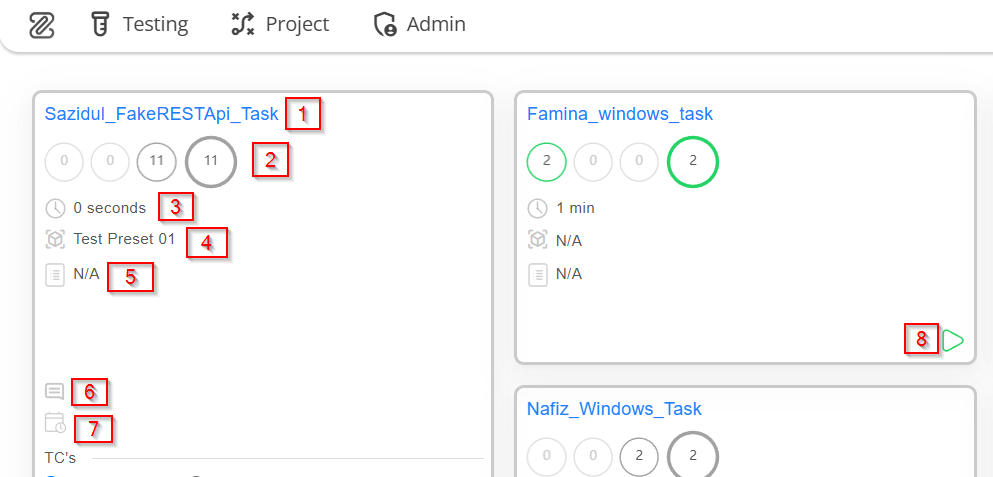
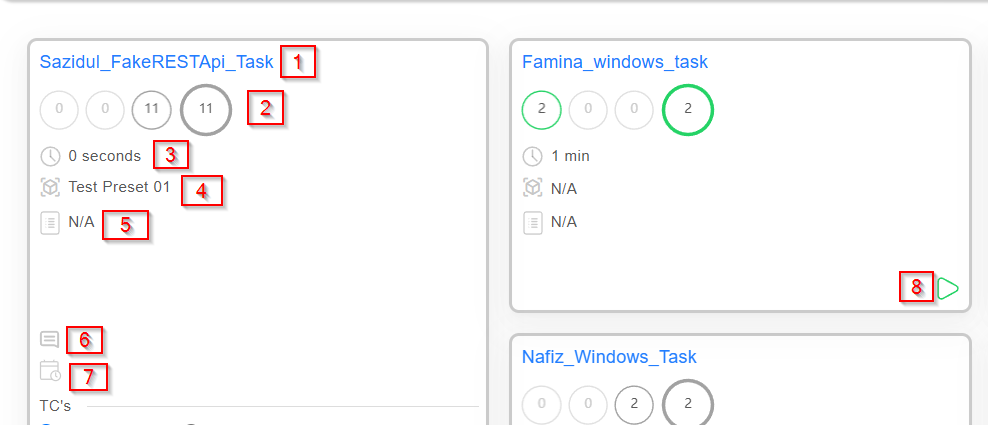
testing docs

Changed region(s): [[0.0, 0.0, 1.0, 1.0]]

diff --git a/docs/zeuz-server/testing/Deployments/test-set.md b/docs/zeuz-server/testing/Deployments/test-set.md
@@ -50,13 +50,8 @@ A Test Set is a collection of logically grouped test cases. Test sets can be exe
    2. Shows the total number of test cases in the set, as well as the number of test cases that have been passed, failed, blocked, and submitted.
    3. The execution time of the test set.
    4. The preset of the test set is defined. However, if we click on the preset that has been connected to the test set then it will show the following run configuration information, such as:
-
-    |                    |  Properties    |                       |
-    |--------------------|----------------|-----------------------|
-    |  1. Node           |  2. Testers    |  3. Emails            |
-    |  4. Version        |  5. Milestone  |  6. Objective         |
-    |  7. Browser        |  8. Mobile     |  9. External service  |
-
+      - **Description of the Test Set**.
+      - **Schedule of the Test Set**.  
     The benefit here is that if the preset of a set is selected, it will display the test cases associated with that set.  
    5. It also displays the plan, if there is one.  
    6. The description is available; if there is a description, it will be displayed, otherwise, the field will remain blank.  
@@ -75,36 +70,143 @@ When sorted by "Status", failed test cases appear first, followed by blocked, pa
 
 ![](/img/how-tos/how-to-create-test-sets/set-version.png)
 
+### View Tab of the Test Set Page
+- At first, the specific test set must be selected by clicking on it, which will open the **Test Set** page.
+- At the top of the page, there is a title bar that displays the test set name, the creator, and the creation date of the test set. However, the name of the set can be updated by clicking on it.
 
-## Add or remove test cases
-1. First, click on the **Test Set Name** of the specific test set card available on the **Set** page.
+![](/img/how-tos/how-to-create-test-sets/set-title.png)
 
-![](/img/how-tos/how-to-create-test-sets/card-set.png)
+- Again, at the top of the page, the following options are available:  
+  - **Copy test set**: By clicking the **Copy test set** option, the Copy Test Set window will appear. It requires the test set name and description. After clicking the **Copy** button, a notification will appear, such as: “Test set with the name ‘Regression Set’ was created successfully.”
 
-2. Go to the **Test Set (Add/Remove)** page and click on the **Add** tab.
-3. Click the "checkbox" to select test cases for adding to the test set.
-4. Next, click on the "Add Selected" button.
- 
-![](/img/how-tos/how-to-create-test-sets/add-tab.png)
+  ![](/img/how-tos/how-to-create-test-sets/copy-test.png)
 
-5. Click on the **View** tab to see whether the required **Test cases** are added or not.
+  ![](/img/how-tos/how-to-create-test-sets/copy-set.png)
+
+  ![](/img/how-tos/how-to-create-test-sets/copy-notification.png)
+
+  - **Reorder options**: It is used to change the execution order of the test cases within the test set.This allows users to arrange test cases in a specific sequence based on their testing needs. Also, by clicking the **Reorder option**, a **Drag & Drop** feature becomes available, allowing users to arrange the test cases by dragging them.
+
+  ![](/img/how-tos/how-to-create-test-sets/reorder-set.png)
+
+  - **Export test set**: An **Export test set** is the process of extracting a collection of grouped test cases from a test management system and saving them in an external file format such as Excel or CSV for sharing, reporting, backup, or offline analysis.
+
+  ![](/img/how-tos/how-to-create-test-sets/export-set.png)
+
+  - **Delete test set**: A **Delete test set** refers to the action of permanently removing a test set and all its associated test cases from a test management system.
+
+  ![](/img/how-tos/how-to-create-test-sets/delete-set.png)
+
+  - **Run test set**: A **Run test set** is the process of executing all test cases grouped inside a test set in a test management system to validate the functionality of an application.During a test run, each test case is executed, and its result is recorded as passed, failed, or submitted.
+
+  ![](/img/how-tos/how-to-create-test-sets/run-set.png)
+
+- Below the title, there are two tabs:  
+  - **View**: Displays all existing test cases.
+  - **Add**: Used to add new test cases.
+
+  ![](/img/how-tos/how-to-create-test-sets/view-add.png)
+
+- A **Search bar** is available to quickly find test cases by ID, label, user, folder, or feature.
+
+![](/img/how-tos/how-to-create-test-sets/search-set.png)
+
+- The **Remove Selected** button allows users to delete multiple selected test cases at once.
+
+![](/img/how-tos/how-to-create-test-sets/remove-selected.png)
+
+- After clicking the **Settings** button on the right side, a dropdown-style filter menu appears containing multiple selectable checkboxes. These options are used to refine **Search filters**, **Columns**, and **Row actions**. From the settings option, the user can choose which columns to display. By selecting or deselecting checkboxes, columns can be added or removed as needed. The table view can be toggled according to preference. Additionally, the user can configure which action buttons should appear within each row.
+
+![](/img/how-tos/how-to-create-test-sets/set-settings.png)
+
+- The **View** tab contains a table that displays all the test cases with the columns selected through the Settings option, such as:  
+  - **Selection Checkbox**: Available at the left side of each row, allowing users to select one or multiple test cases for bulk actions.
+  - **ID**: Displays the unique test case ID, such as **TEST-0447**, **TEST-0448**, and others.
+  - **Title**: Shows the name or description of each test case, helping users identify the purpose of the test.
+  - **P (Priority)**: Indicates the priority level of the test case, such as **P1**, **P2** etc.
+  - **Status**: Displays the current execution status of the test case. Here, some test cases are marked as Ready, meaning they are prepared for execution.
+  - **Folder**: Shows the folder where the test cases are stored.
+  - **Feature**: Indicates the feature or module associated with the test case.
+  - **Labels**: Reserved for tags or labels used to categorize test cases.
+  - **Progress**: Displays the execution progress using a progress bar.
+  - **Time Left**: Shows the estimated remaining execution time.
+  - **Type**: Displays the execution type using an icon, such as, **Automation** or **Manual**.
+  - **Time**: Shows the execution duration or recorded time.
+:::note
+Additional information can be displayed in the table by selecting the desired options from the Settings menu, if needed.
+
+:::
+- **Actions**: Provides action buttons for each test case, such as:  
+  - **Remove test case**: Removes the test case from the test set.
+  - **Copy test case**: Creates a copy of the selected test case of the required test set.
 
 ![](/img/how-tos/how-to-create-test-sets/view-tab.png)
 
-6. To remove a test case, select the checkbox next to the desired test case, then click on the "Delete Selected" button. The selected test case will be deleted.
+### Add Tab of the Test Set Page
+- At the top of the page, a **Search bar** is available to quickly find test cases by ID, label, user, folder, feature, and other criteria.
 
-![](/img/how-tos/how-to-create-test-sets/remove-set.png)
+![](/img/how-tos/how-to-create-test-sets/add-search.png)
 
+- A **date range** picker used to filter test cases based on a selected date range. It contains the following components:  
+  - **Start Date-End Date**: Located at the top left, this field allows users to select a start date and an end date for filtering test cases.
+  - **Calendar Icon**: Opens the calendar popup for date selection.
+  - **Dual Calendar View**: The popup displays two months side by side, making it easier to select dates across different months.
+  - **Navigation Arrows**: The arrows at the top allow users to move to previous or next months.
+  - **Date Selection**: Users can click on specific dates to define the desired date range.
 
-## Deploy test sets
-1. Click on the **Deploy** button of the required **Test Set**.
+![](/img/how-tos/how-to-create-test-sets/date-range.png)
 
-![](/img/how-tos/how-to-deploy-test-sets/set-deploy.png)
+- **Sorting dropdown menu**: It is used to arrange test cases based on modification time or test case ID. It contains the following options:  
+  - **Last Modification**: This is the currently selected sorting option. It sorts the test cases based on their most recent modification date, allowing users to view recently updated test cases first.
+  - **Test case ID DESC**: Sorts the test cases in **descending** order by test case ID, meaning higher IDs appear first.
+  - **Test case ID ASC**: Sorts the test cases in **ascending** order by test case ID, meaning lower IDs appear first.
 
-2. Go to the **Run Tests/Deploy** page.
-3. Click on the **Run** button.
+  ![](/img/how-tos/how-to-create-test-sets/last-modification.png)
 
-See [related topics](#related-topics) to learn more about running your tests.
+- **Add Selected Button**: Allows users to add the selected test cases after applying the filter.
+
+![](/img/how-tos/how-to-create-test-sets/add-selected.png)
+
+- **Add by ID**: It means adding test cases to a test set by entering their unique **test case IDs** instead of selecting them manually from the list. By using the **Add by ID** option, users can directly input one or multiple test case IDs, and the system automatically adds those specific test cases to the selected test set.
+
+![](/img/how-tos/how-to-create-test-sets/add-ID.png)
+
+![](/img/how-tos/how-to-create-test-sets/test-ID.png)
+
+- **View Settings**: The function of the Settings button has already been described in the **View** tab section. It works the same way in the **Add** tab as it does in the **View** tab.
+
+![](/img/how-tos/how-to-create-test-sets/add-settings.png)
+
+- The **Add** tab contains a table that displays all test cases with the columns selected through the **Settings** option. The **Add** tab includes the same columns as the View tab, with one exception: under the **Actions** column, only the **Copy test case** icon is available, which allows users to create a copy of the selected test case. 
+- Additional information can be displayed in the table by selecting the desired options from the **Settings** menu, if needed.
+
+![](/img/how-tos/how-to-create-test-sets/copy-action.png)
+
+## Add test cases to the Test Set
+- First, click on the **Test Set Name** of the specific test set card available on the **Set** page.
+
+![](/img/how-tos/how-to-create-test-sets/card-set.png)
+
+- Users can add test cases to the test set by navigating to the **Add**
+- Click the **Checkbox** to select test cases for adding to the test set.
+- Next, click on the **+ Add Selected** button.
+ 
+![](/img/how-tos/how-to-create-test-sets/adding-test.png)
+
+- Click on the **View** tab to see whether the required **Test cases** are added or not.
+
+![](/img/how-tos/how-to-create-test-sets/view-addition.png)
+
+- The test cases can also be reordered by using the **Drag & Drop** button.
+
+![](/img/how-tos/how-to-create-test-sets/drag-set.png)
+
+![](/img/how-tos/how-to-create-test-sets/drag-reorder.png)
+
+- During **reordering**, the system highlights the test cases whose positions have been changed, making it easier to identify the affected test cases. This is useful because users may sometimes forget which test cases were reordered, especially when test case IDs are difficult to remember or multiple test cases have similar titles. The highlighted rows help users clearly see which test cases were affected due to the changed order.
+- After completing the reordering, clicking the **Save Order** button saves the new sequence successfully.
+
+![](/img/how-tos/how-to-create-test-sets/save-apply.png)
 
 ## FAQs / Troubleshooting
 